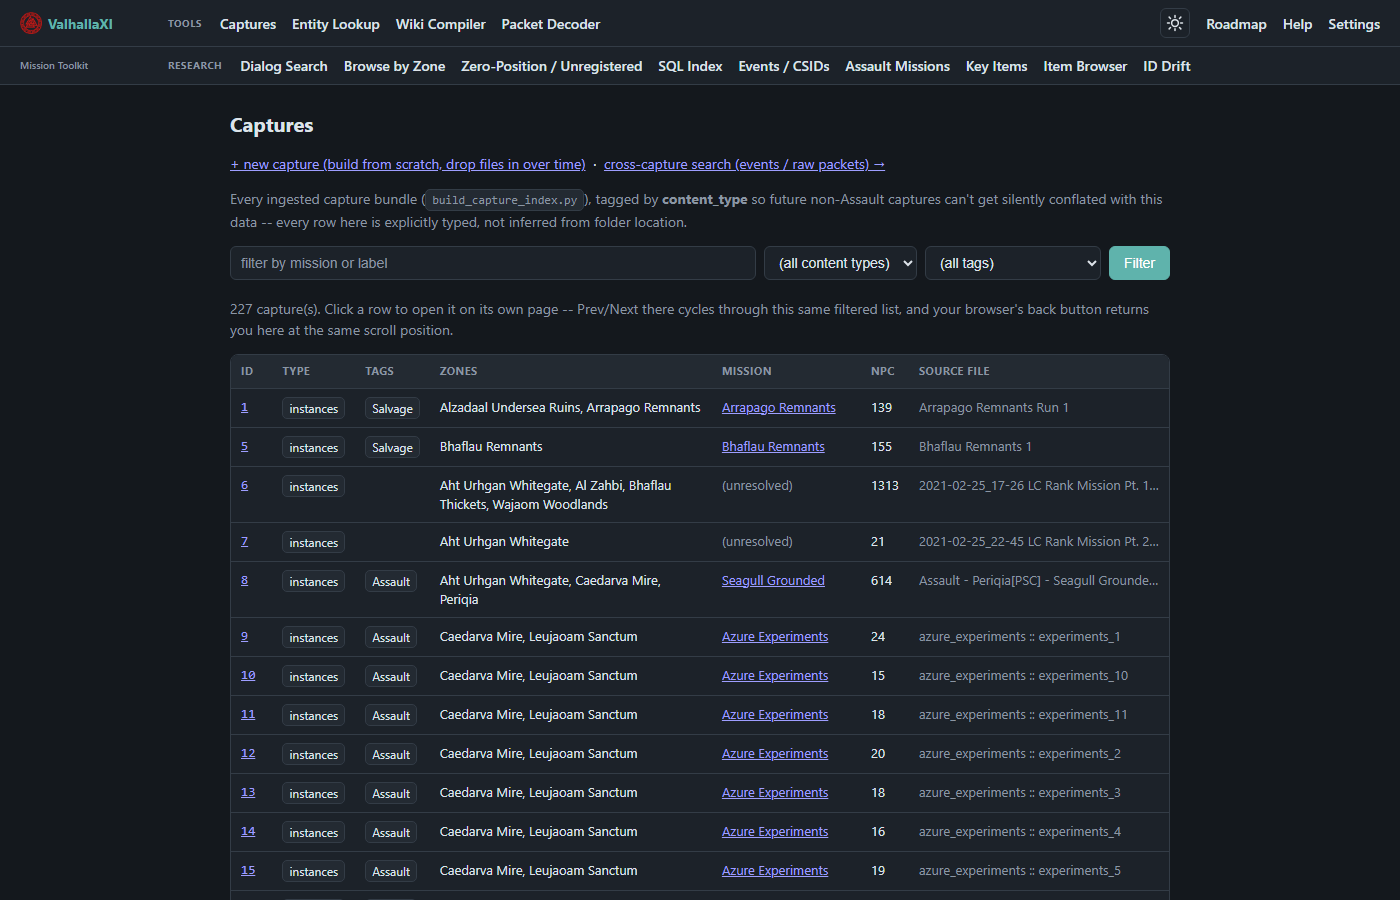
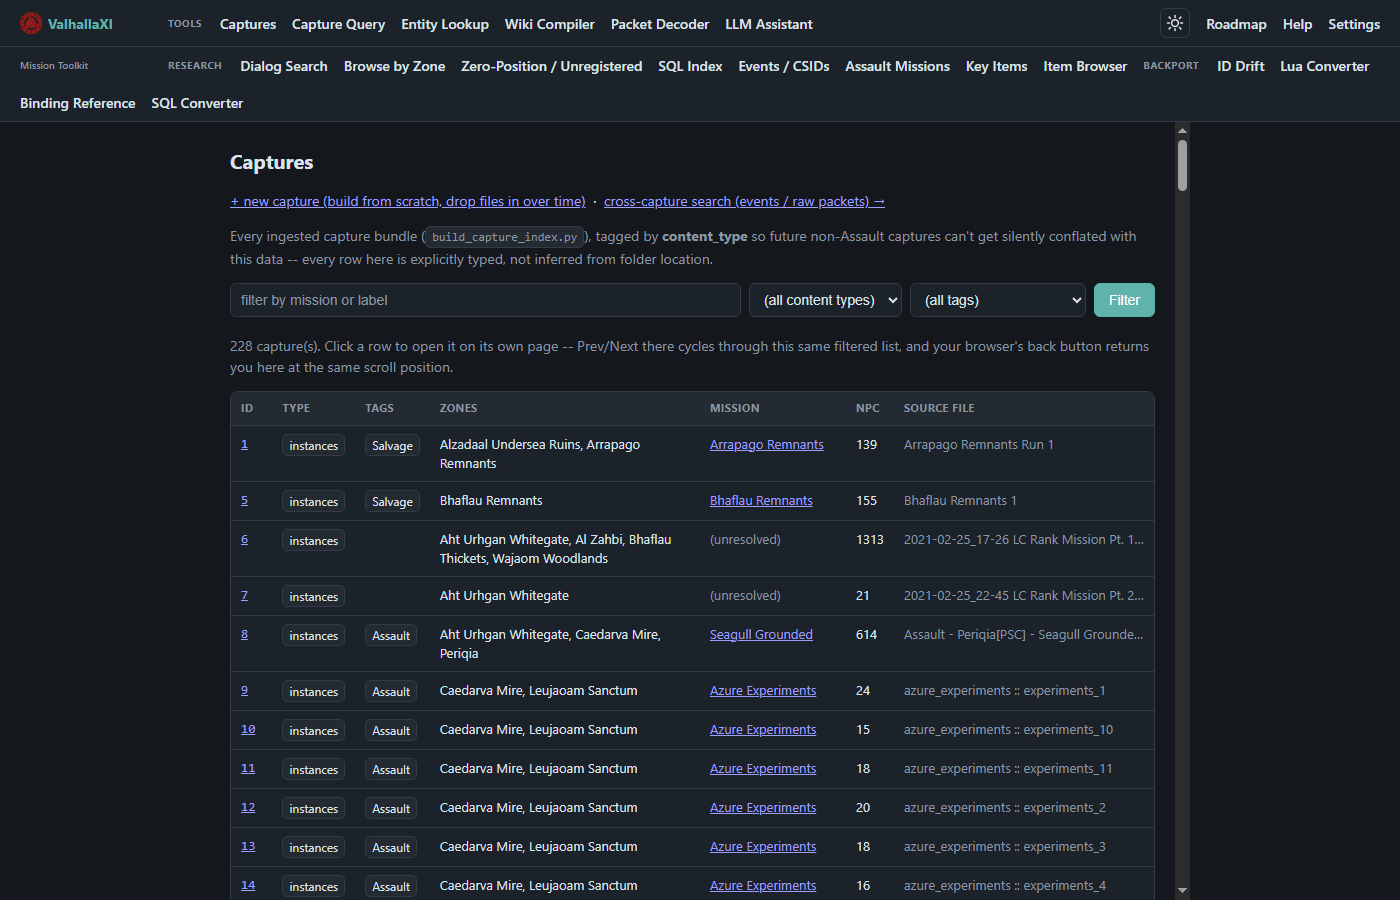
Refresh stale screenshots and expand README coverage of newer features
All 6 existing screenshots were pre-Backport-module and pre-LLM-Assistant, taken via headless
Chrome against the live app for an exact, current, real-data capture (not mockups) -- homepage,
entity search/profile, and the 3 captures pages now show the real current nav (LLM Assistant,
Backport section) instead of a stale one missing them entirely.

5 new screenshots added, covering functionality the README didn't document at all before:
ID Drift's category browser, the Lua Backport Converter (real godmode.lua Topaz->DSP conversion,
0 flagged lines), the Binding Reference page (real cross-referenced renames with evidence), the
SQL Backport Converter (real Nyzul mob_groups rows showing genuine id-collision detection against
DSP's indexed data), and the LLM Assistant page.

README's Features/Dependencies sections updated to describe the Backport module and LLM Assistant
(previously undocumented), and to reflect the vendor/ reorg and Settings-driven paths from the
prior commit.

Also fixed one more hardcoded personal path found while screenshotting: llm.html's file-path input
placeholder referenced a specific local checkout path -- genericized.

diff --git a/gui/templates/llm.html b/gui/templates/llm.html
@@ -23,7 +23,7 @@
 
   <div style="display:flex; gap:16px; flex-wrap:wrap; align-items:flex-end;">
     <label>Or summarize a file (server-side path, e.g. a doc or capture log)
-      <br><input type="text" name="file_path" value="{{ file_path }}" style="width:420px;" placeholder="e.g. D:\Claude\Topaz-Assault-Backport\source\documentation\Assault_Fix_Log.md">
+      <br><input type="text" name="file_path" value="{{ file_path }}" style="width:420px;" placeholder="e.g. C:\your\backport\checkout\reports\some_report.md">
     </label>
     <label>Or attach an image (needs a vision-capable model, e.g. ornith-1.5:9b, gemma4:26b)
       <br><input type="file" name="image" accept="image/*">

diff --git a/README.md b/README.md
@@ -16,8 +16,9 @@ digging through raw DAT files or SQL dumps by hand.
 - **Entity Lookup** — one canonical profile per NPC/mob id: model, spawn group, mission, real drop
   table, cross-zone name matches.
 - **Browse by Zone** — every NPC/mob/dialog entry for a single zone at a glance.
-- **SQL Index / ID Drift** — your Topaz server's own SQL indexed and diffed against LandSandBoat,
-  to catch id mismatches between the two.
+- **SQL Index / ID Drift** — your Topaz server's own SQL indexed and diffed against
+  LandSandBoat, and optionally against a real old-DSP (Darkstar/Valhalla-style) checkout too, to
+  catch id mismatches across any combination of them.
 - **Events / CSIDs** — per-zone event data, decoded on first view and cached after.
 - **Captures** — ingest and browse real packet-capture sessions (multiple capture tool formats
   supported) alongside everything else.
@@ -25,6 +26,12 @@ digging through raw DAT files or SQL dumps by hand.
 - **Packet Decoder** — inspect raw packet bytes against a documented opcode table.
 - **Assault Missions / Key Items / Zero-Position audit** — a few more focused lookup pages, all
   built on the same indexed data.
+- **Backport module** (optional, needs a DSP checkout configured in Settings) — a Topaz→DSP Lua
+  converter, a searchable Binding Reference cross-referencing every Lua method both codebases
+  register, and a SQL converter with real id-collision checking against the DSP target.
+- **LLM Assistant** (optional, needs a local Open WebUI/Ollama instance) — draft-only offload for
+  summarizing/triaging captures and other first-pass suggestions; never used to write an id or
+  binding directly into a shipped package without a human verification pass after.
 
 ## Screenshots
 
@@ -46,6 +53,26 @@ digging through raw DAT files or SQL dumps by hand.
 ![Cross-capture search](docs/screenshots/captures-search.png)
 *Capture Search — full-text search across every capture's events and raw packets at once.*
 
+![ID Drift](docs/screenshots/iddrift.png)
+*ID Drift — cross-checks LandSandBoat (and optionally a real DSP checkout) against your Topaz
+server, category by category, so a wrong id shows up here instead of only in-game.*
+
+![Lua Backport Converter](docs/screenshots/lua-convert.png)
+*Lua Backport Converter — converts a Topaz Lua file to a DSP checkout's own convention, applying
+every confirmed namespace/binding mapping and flagging anything unmapped for human review.*
+
+![Binding Reference](docs/screenshots/binding-reference.png)
+*Binding Reference — every Lua method binding registered in Topaz and in DSP, cross-referenced
+with real evidence, searchable and filterable outside a conversion run.*
+
+![SQL Backport Converter](docs/screenshots/sql-convert.png)
+*SQL Backport Converter — converts Topaz `INSERT INTO` rows to DSP's schema and checks every id
+against DSP's real indexed data for genuine collisions, not just a raw dump diff.*
+
+![LLM Assistant](docs/screenshots/llm-assistant.png)
+*LLM Assistant — optional draft-only offload (summaries, triage, first-pass suggestions) against a
+local Open WebUI/Ollama instance, with every call logged for visibility.*
+
 ## Dependencies
 
 - **Python 3.11+**
@@ -54,9 +81,12 @@ digging through raw DAT files or SQL dumps by hand.
 - **A Topaz server checkout** (reads your own `conf/map.conf` and SQL)
 - [`xi-tinkerer`](https://github.com/InoUno/xi-tinkerer) / `xi-tinkerer-py` — DAT parsing, installed
   automatically by setup
-- A handful of smaller third-party tools bundled as subfolders (dat extraction, resource
+- A handful of smaller third-party tools bundled under `vendor/` (dat extraction, resource
   parsing/building, packet capture) — see [`TOOLING_OVERVIEW.md`](docs/guides/TOOLING_OVERVIEW.md) for the
   full list. Each keeps its own license in its own folder (see **License** below).
+- Optional, for the Backport module: **a DSP server checkout** and/or **a backport-package
+  checkout** (Topaz→DSP mission conversion work). Configure all of these on the **Settings** page —
+  every path in this toolkit is user-configurable, nothing is hardcoded to a specific machine.
 
 ## Setup
 
@@ -89,10 +119,11 @@ no command line needed for normal use.
 
 This repo's own code (the Python toolkit and web UI) is released under the [MIT License](LICENSE).
 
-Several bundled third-party tools carry **their own** licenses in their own subfolders — most
-notably GPL-3.0 (`xi-model-viewer`, `Packetlyzer`) and AGPL-3.0 (`xi-tinkerer`). Those licenses
-apply to those tools specifically, not to this repo's own code, and their `LICENSE` files are kept
-intact as shipped. If you redistribute this repo, keep those subfolders' licenses with them.
+Several bundled third-party tools under `vendor/` carry **their own** licenses in their own
+subfolders — most notably GPL-3.0 (`vendor/xi-model-viewer`, `vendor/Packetlyzer`) and AGPL-3.0
+(`vendor/xi-tinkerer`). Those licenses apply to those tools specifically, not to this repo's own
+code, and their `LICENSE` files are kept intact as shipped. If you redistribute this repo, keep
+those subfolders' licenses with them.
 
 No FFXI game data (DAT files, extracted text, models, etc.) is included in this repo — the setup
 process reads it from your own legally-owned client install.
